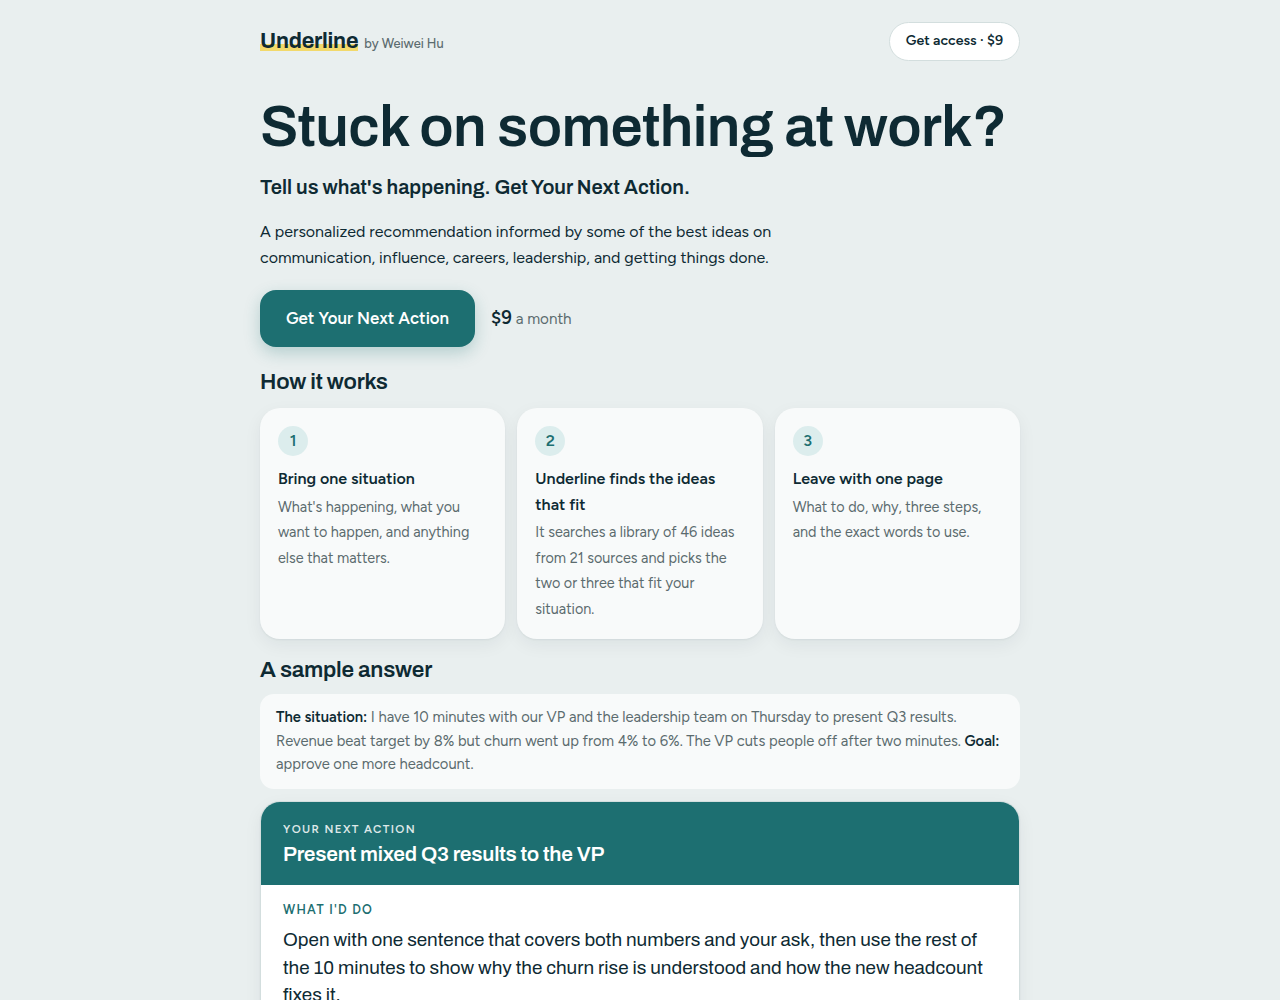
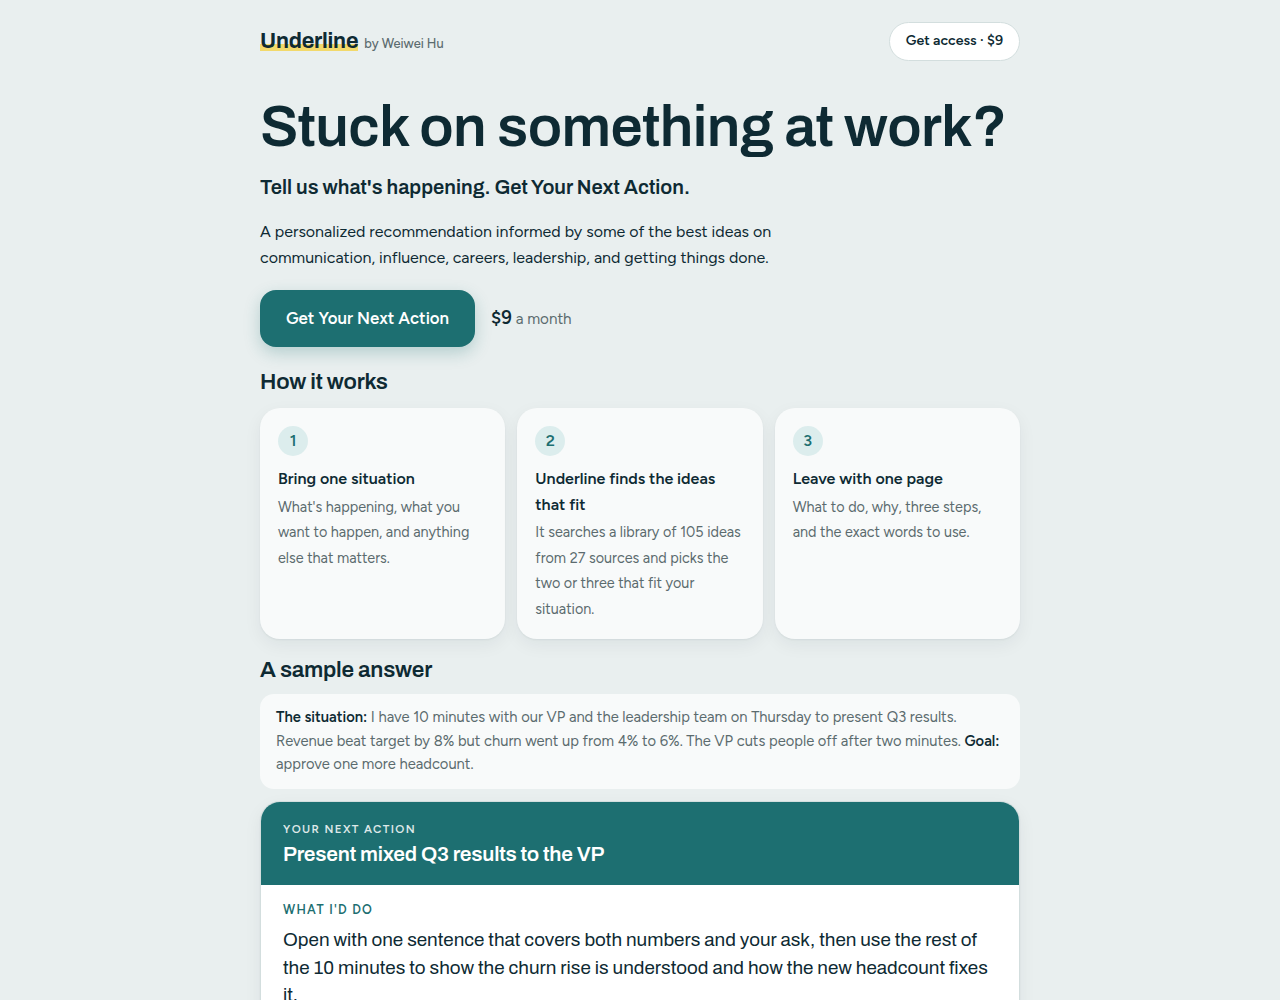
Add six books to Underline's sources and drop product names from the copy
Claude-Session: https://claude.ai/code/session_01N7N6w9NyR9iyFeuC71Pzud

Changed region(s): [[0.375, 0.961, 0.7812, 0.992], [0.4688, 0.527, 0.5938, 0.589], [0.2188, 0.992, 0.2812, 1.0]]

diff --git a/index.html b/index.html
@@ -140,7 +140,7 @@ a.btn{text-decoration:none;color:var(--ink)}
     <h2 class="h2" style="margin-bottom:12px">How it works</h2>
     <ol class="steps3">
       <li><b>Bring one situation</b><span>What's happening, what you want to happen, and anything else that matters.</span></li>
-      <li><b>Underline finds the ideas that fit</b><span>It searches a library of 46 ideas from 21 sources and picks the two or three that fit your situation.</span></li>
+      <li><b>Underline finds the ideas that fit</b><span>It searches a library of 105 ideas from 27 sources and picks the two or three that fit your situation.</span></li>
       <li><b>Leave with one page</b><span>What to do, why, three steps, and the exact words to use.</span></li>
     </ol>
   </section>
@@ -150,10 +150,10 @@ a.btn{text-decoration:none;color:var(--ink)}
     <div class="ask"><b>The situation:</b> I have 10 minutes with our VP and the leadership team on Thursday to present Q3 results. Revenue beat target by 8% but churn went up from 4% to 6%. The VP cuts people off after two minutes. <b>Goal:</b> approve one more headcount.</div>
     <article class="answer">
       <div class="ahead"><div class="eyebrow">Your Next Action</div><h2>Present mixed Q3 results to the VP</h2></div>
-      <section class="asec"><h3>What I'd do</h3><p class="do">Open with one sentence that covers both numbers and your ask, then use the rest of the 10 minutes to show why the churn rise is understood and how the new headcount fixes it.</p></section>
-      <section class="asec"><h3>Why</h3><ul class="why"><li><p>Your VP cuts people off after two minutes. If the result and the ask come in the first 30 seconds, you&#x27;ve made your point even if you&#x27;re interrupted.</p><span class="src"><b>Answer first</b> · Barbara Minto, The Pyramid Principle</span></li><li><p>Beat target, churn up, what do we do, add one person: that order puts the bad news in context and leads straight to the ask.</p><span class="src"><b>Situation, Complication, Question, Answer</b> · Barbara Minto, The Pyramid Principle</span></li><li><p>Three groups (revenue, churn, the plan) keep 10 minutes from turning into a list of numbers.</p><span class="src"><b>Group your points under one message</b> · Barbara Minto, The Pyramid Principle</span></li></ul></section>
-      <section class="asec"><h3>How to do it</h3><ol class="how"><li>Today, write your first sentence and test it on a colleague. It should include +8% revenue, churn 4% to 6%, and the headcount ask.</li><li>Before Thursday, cut the deck to three sections and put the churn cause and fix on one slide.</li><li>In the first minute on Thursday, say the opening below, then ask if they want the churn detail or the plan first.</li></ol></section>
-      <section class="asec"><h3>What to say</h3><div><p class="saylabel">Open with</p><p class="say">Q3 revenue beat target by 8%. Churn went up from 4% to 6%, and we know why: [cause]. I&#x27;m asking for one more person in Q4 to fix it. That person would [task], which should bring churn back to [target] by [date]. I&#x27;ll show the three numbers behind this, then the plan.</p></div></section>
+      <section class="asec"><h3>What I'd do</h3><p class="do">Open with one sentence that covers both numbers and your ask, then use the rest of the 10 minutes to show the churn rise is understood and how the new headcount fixes it.</p></section>
+      <section class="asec"><h3>Why</h3><ul class="why"><li><p>Your VP cuts people off after two minutes. If the result and the ask come in the first 30 seconds, you&#x27;ve made your point even if you&#x27;re interrupted.</p><span class="src"><b>Answer first</b> · Barbara Minto, The Pyramid Principle</span></li><li><p>Beat target, churn up, what do we do, add one person: that order puts the bad news in context and leads straight to the ask.</p><span class="src"><b>Situation, Complication, Question, Answer</b> · Barbara Minto, The Pyramid Principle</span></li><li><p>&quot;Churn went from 4% to 6%&quot; is easy to shrug off. Saying how many customers or how much revenue that 2% means makes the case for headcount land.</p><span class="src"><b>Never leave data dangling</b> · Carmine Gallo, Talk Like TED</span></li></ul></section>
+      <section class="asec"><h3>How to do it</h3><ol class="how"><li>Today, turn the churn rise into a number people feel, such as [X] customers or [$] a year, and write your first sentence with it.</li><li>Before Thursday, cut the deck to three sections (revenue, churn, the plan) and put the churn cause and fix on one slide.</li><li>In the first minute on Thursday, say the opening below, then ask if they want the churn detail or the plan first.</li></ol></section>
+      <section class="asec"><h3>What to say</h3><div><p class="saylabel">Open with</p><p class="say">Q3 revenue beat target by 8%. Churn went up from 4% to 6%, which is about [X] customers, and we know why: [cause]. I&#x27;m asking for one more person in Q4 to fix it. That person would [task], which should bring churn back to [target] by [date]. I&#x27;ll show the three numbers behind this, then the plan.</p></div></section>
     </article>
   </section>
 
@@ -166,12 +166,12 @@ a.btn{text-decoration:none;color:var(--ink)}
       <li>Meetings, career choices, getting credit, getting buy-in</li>
     </ul>
     <div class="ctarow" style="margin-top:6px"><a class="cta" href="https://buy.stripe.com/cNi14nfzP6RKfkX9F2eQM00" target="_blank" rel="noopener">Get Your Next Action</a></div>
-    <p class="small">After you subscribe, I'll add your Claude account and email you the link. Underline runs on your own Claude account.</p>
+    <p class="small">After you subscribe, I'll email you a link to get access.</p>
   </section>
 
   <details class="lib card">
     <summary>What Underline draws on</summary>
-    <ul class="libgrid"><li><b>5 Whys (Toyota Production System, Taiichi Ohno)</b></li><li><b>AIDA model (E. St. Elmo Lewis)</b></li><li><b>Amazon&#x27;s six-page memo practice</b></li><li><b>Amazon&#x27;s two-pizza team practice</b></li><li><b>High Output Management</b> · Andy Grove</li><li><b>The Pyramid Principle</b> · Barbara Minto</li><li><b>Getting Things Done</b> · David Allen</li><li><b>Eisenhower matrix</b></li><li><b>The Practice of Management</b> · Peter Drucker</li><li><b>The Fifth Discipline</b> · Peter Senge</li><li><b>RACI matrix (PMBOK Guide)</b></li><li><b>Principles</b> · Ray Dalio</li><li><b>SMART goals (George T. Doran)</b></li><li><b>STAR method</b></li><li><b>Asserting Yourself</b> · Sharon and Gordon Bower</li><li><b>U.S. Army After Action Review</b></li><li><b>W. Edwards Deming (PDCA cycle)</b></li><li><b>&quot;Management Time: Who&#x27;s Got the Monkey?&quot; (Harvard Business Review)</b> · William Oncken Jr. and Donald Wass</li><li><b>13 frameworks (SCUBA, CAR, ACE)</b> · Weiwei Hu</li><li><b>AI Management Toolkit</b> · Weiwei Hu</li><li><b>Workplace SOPs</b> · Weiwei Hu</li></ul>
+    <ul class="libgrid"><li><b>5 Whys (Toyota Production System, Taiichi Ohno)</b></li><li><b>AIDA model (E. St. Elmo Lewis)</b></li><li><b>Likeable Badass</b> · Alison Fragale</li><li><b>Amazon&#x27;s six-page memo practice</b></li><li><b>Amazon&#x27;s two-pizza team practice</b></li><li><b>High Output Management</b> · Andy Grove</li><li><b>Automate Your Busywork</b> · Aytekin Tank</li><li><b>The Pyramid Principle</b> · Barbara Minto</li><li><b>Talk Like TED</b> · Carmine Gallo</li><li><b>Getting Things Done</b> · David Allen</li><li><b>Eisenhower matrix</b></li><li><b>Meeting Design</b> · Kevin M. Hoffman</li><li><b>Own Your Career</b> · Michela Allocca</li><li><b>Pitch Anything</b> · Oren Klaff</li><li><b>The Practice of Management</b> · Peter Drucker</li><li><b>The Fifth Discipline</b> · Peter Senge</li><li><b>RACI matrix (PMBOK Guide)</b></li><li><b>Principles</b> · Ray Dalio</li><li><b>SMART goals (George T. Doran)</b></li><li><b>STAR method</b></li><li><b>Asserting Yourself</b> · Sharon and Gordon Bower</li><li><b>U.S. Army After Action Review</b></li><li><b>W. Edwards Deming (PDCA cycle)</b></li><li><b>&quot;Management Time: Who&#x27;s Got the Monkey?&quot; (Harvard Business Review)</b> · William Oncken Jr. and Donald Wass</li><li><b>13 frameworks (SCUBA, CAR, ACE)</b> · Weiwei Hu</li><li><b>AI Management Toolkit</b> · Weiwei Hu</li><li><b>Workplace SOPs</b> · Weiwei Hu</li></ul>
   </details>
 
   <footer>

diff --git a/README.md b/README.md
@@ -17,7 +17,7 @@ Describe a work situation in a short form. Underline picks the ideas from its li
 
 ## Get Underline
 
-$9 a month: [subscribe here](https://buy.stripe.com/cNi14nfzP6RKfkX9F2eQM00). After you subscribe, I'll add your Claude account and email you the link. Underline runs on your own Claude account.
+$9 a month: [subscribe here](https://buy.stripe.com/cNi14nfzP6RKfkX9F2eQM00). After you subscribe, I'll email you a link to get access.
 
 - Website: https://weiweihu.carrd.co
 - LinkedIn: https://www.linkedin.com/in/weiweihu/
